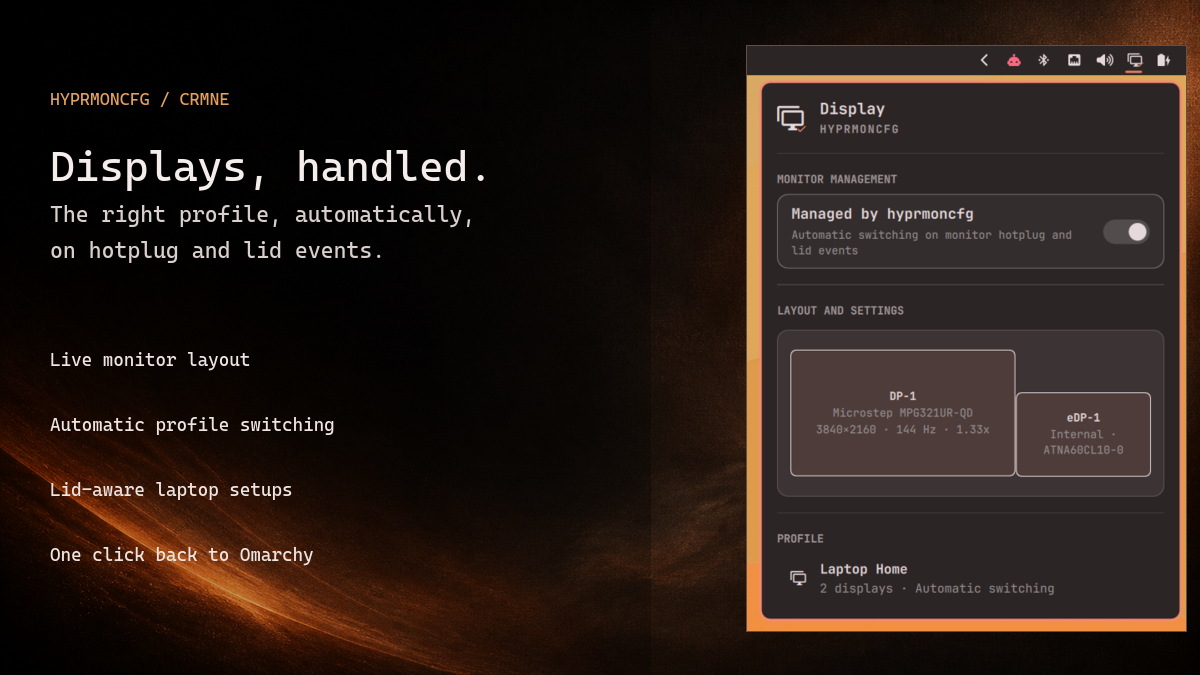
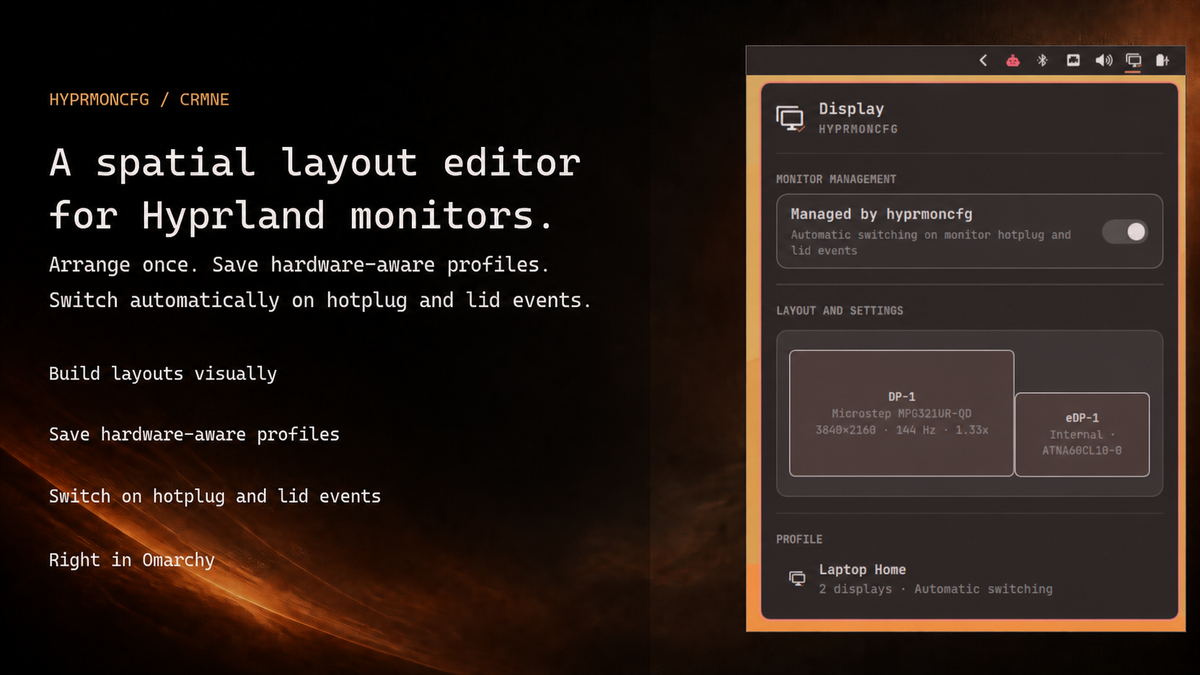
Polish marketplace presentation for 1.1.2

diff --git a/README.md b/README.md
@@ -1,4 +1,4 @@
-# hyprmoncfg for Omarchy
+# hyprmoncfg — Spatial Layout Editor for Hyprland Monitors
 
 An Omarchy bar panel for [hyprmoncfg](https://hyprmoncfg.dev/). See the live display layout and active profile. Turn management on for automatic switching on monitor hotplug and lid events, or turn it off to hand displays cleanly back to Omarchy.
 
